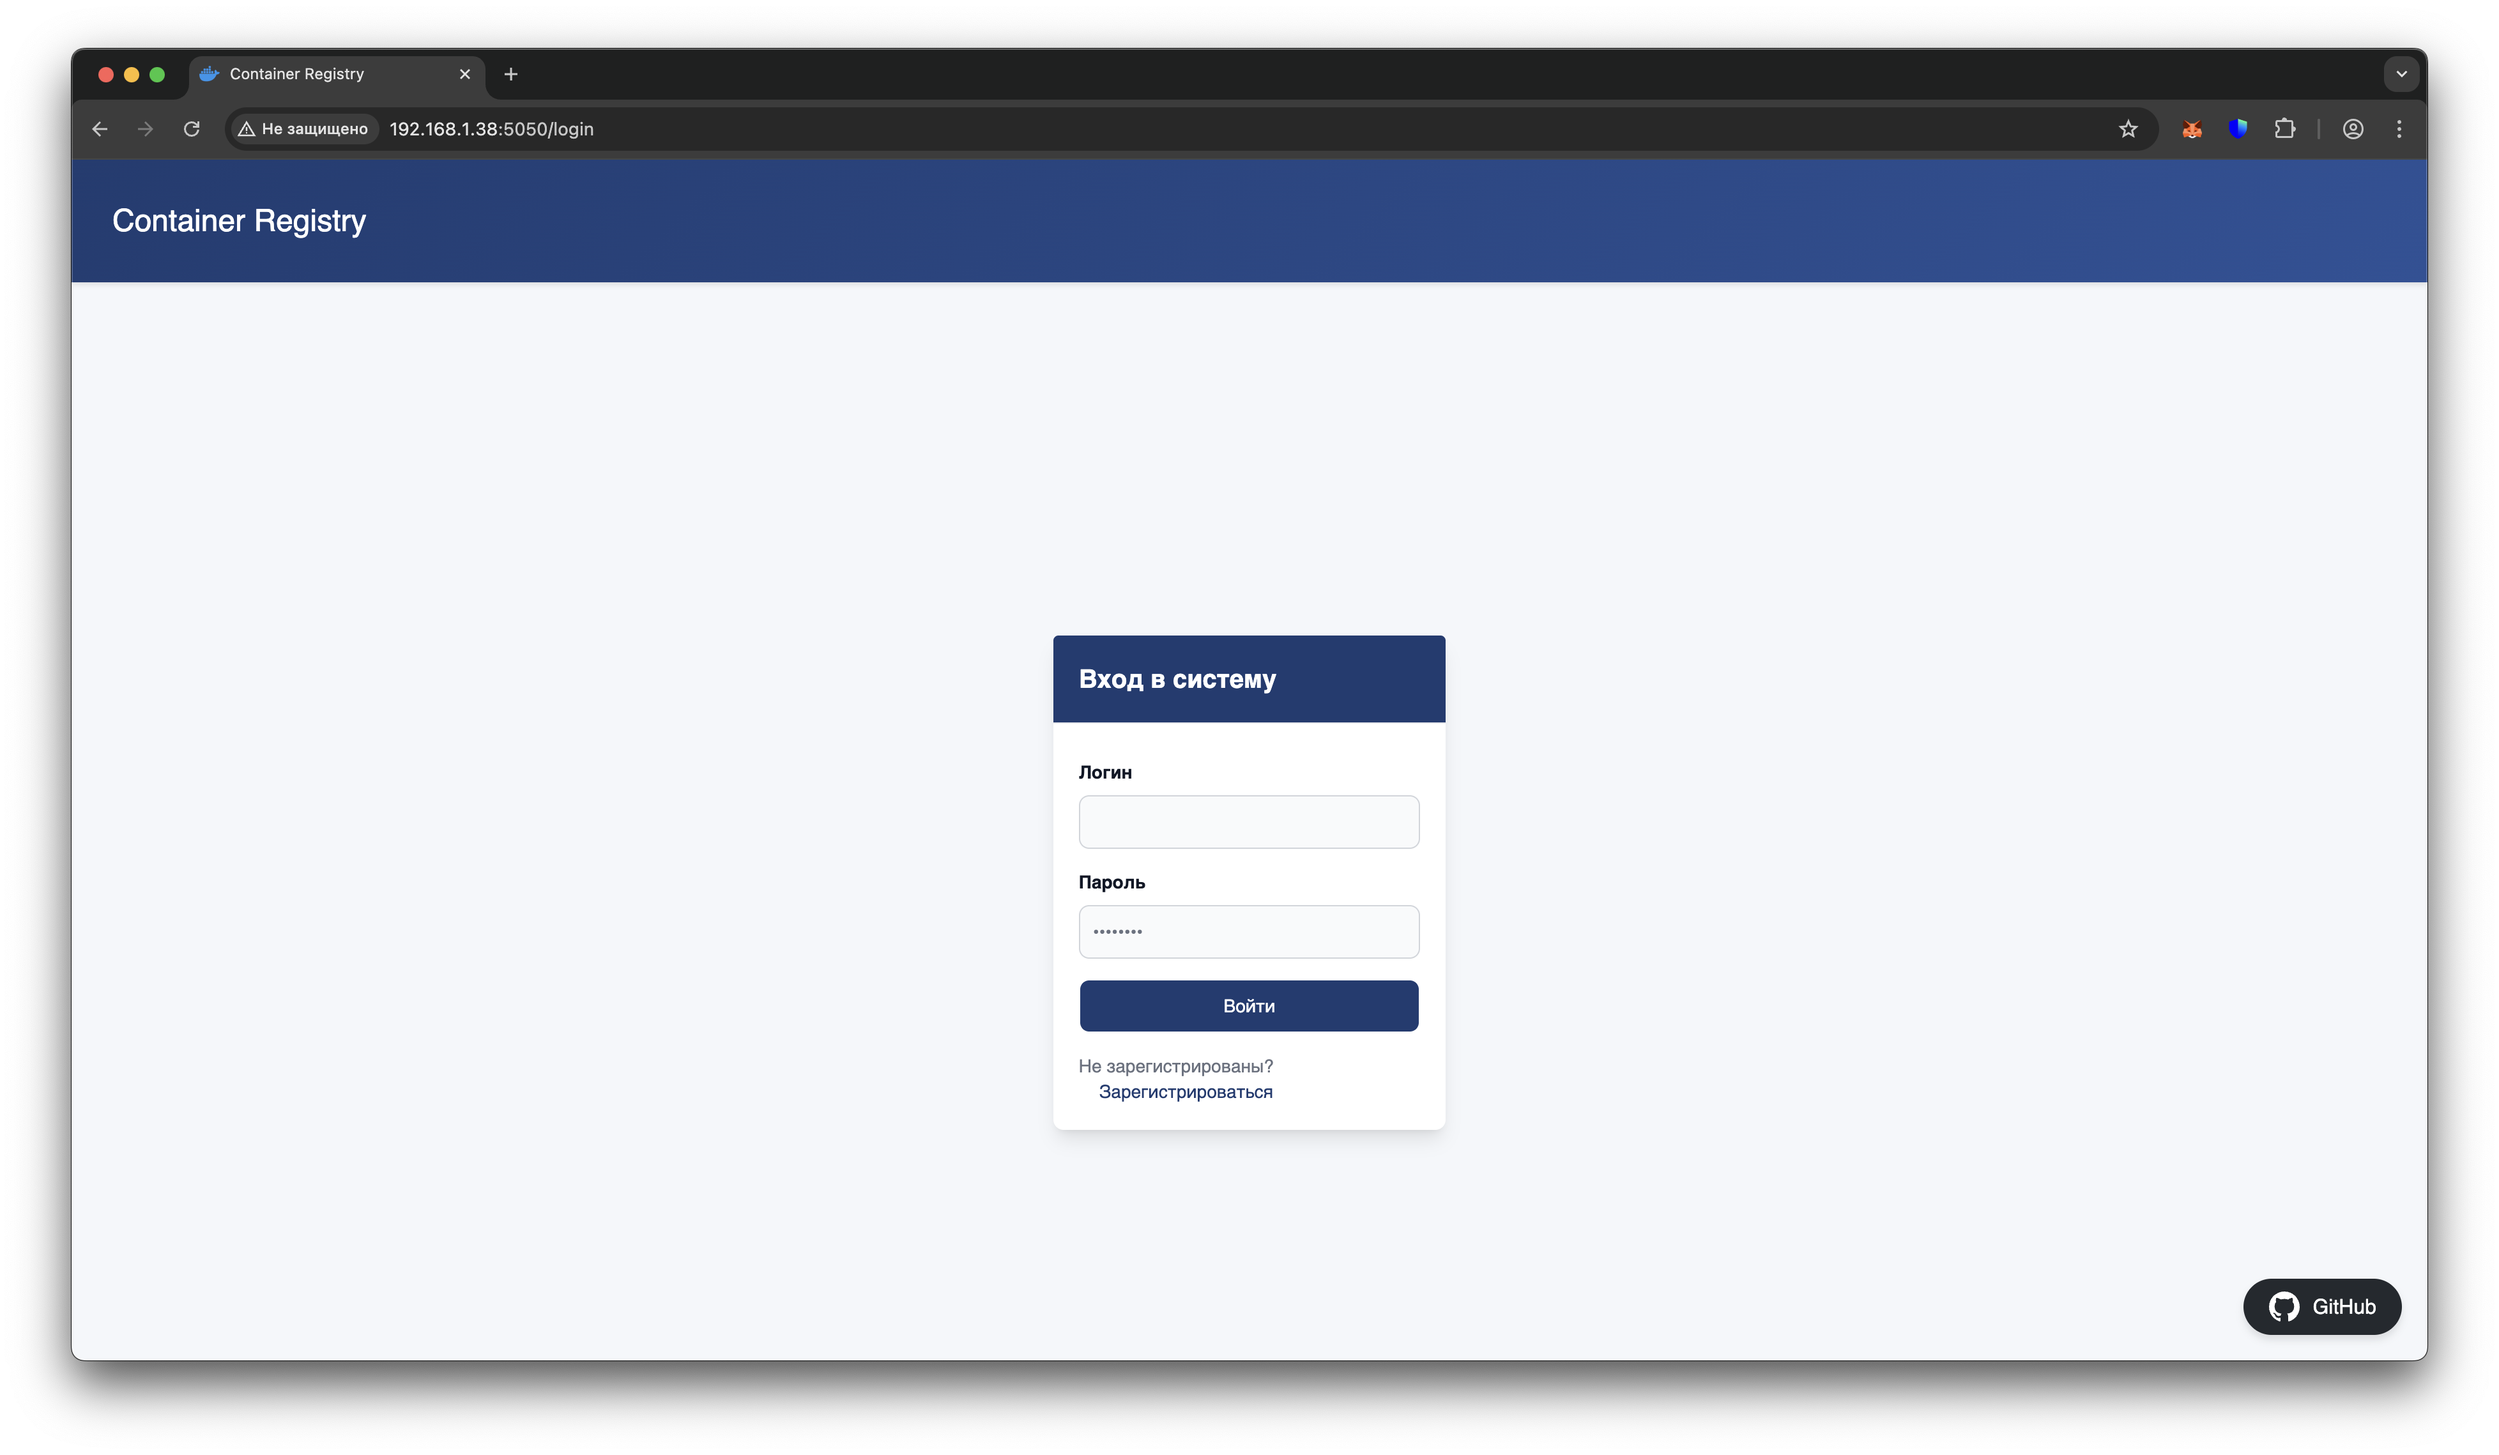
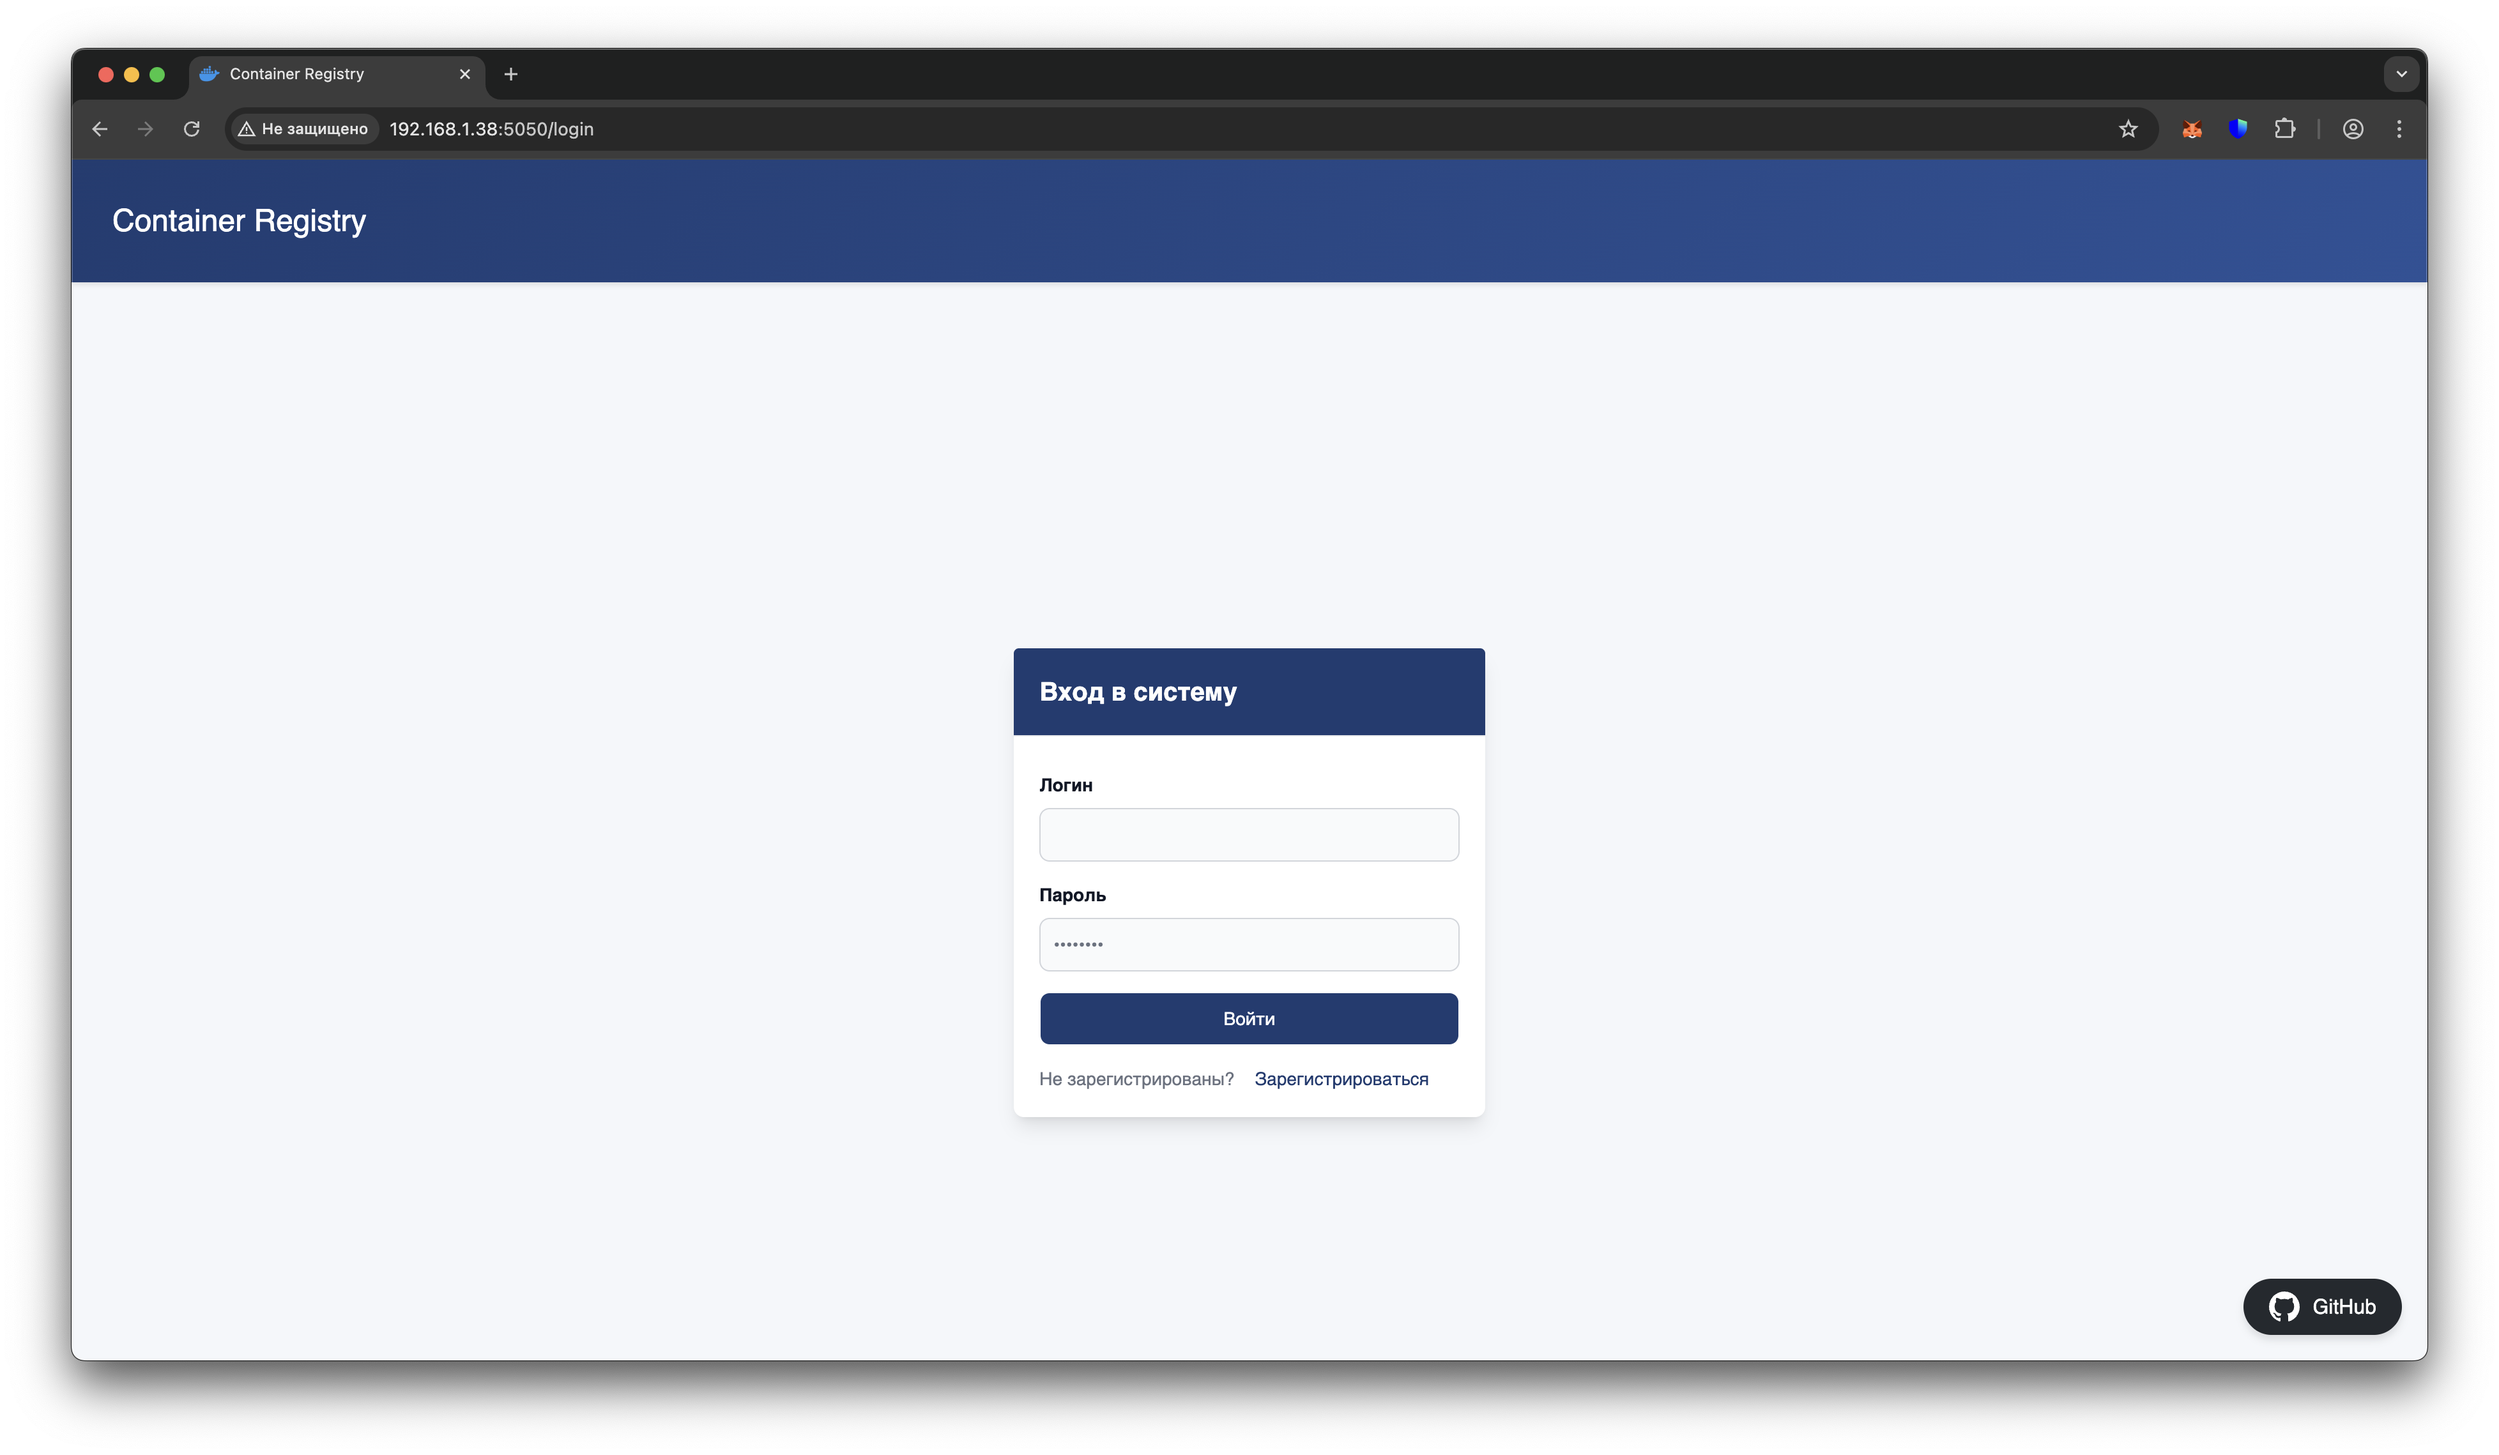
обновлена документация

Changed region(s): [[0.4054, 0.6545, 0.5925, 0.7792], [0.4054, 0.4363, 0.5925, 0.561], [0.4054, 0.5922, 0.4678, 0.6234]]

diff --git a/web/src/Registration.jsx b/web/src/Registration.jsx
@@ -33,7 +33,7 @@ export default function Registration() {
 
   return (
     <div class="flex justify-center items-center h-screen">
-      <div class="relative bg-white rounded-lg shadow-lg w-1/6">
+      <div class="relative bg-white rounded-lg shadow-lg w-1/5">
         <div class="flex bg-main items-center justify-between p-4 md:p-5 border-b rounded-t border-gray-200">
           <h3 class="text-white text-xl font-semibold">
             Регистрация в системе

diff --git a/web/src/Login.jsx b/web/src/Login.jsx
@@ -34,7 +34,7 @@ export default function Login() {
 
   return (
     <div class="flex justify-center items-center h-screen">
-      <div class="relative bg-white rounded-lg shadow-lg w-1/6">
+      <div class="relative bg-white rounded-lg shadow-lg w-1/5">
         <div class="flex bg-main items-center justify-between p-4 md:p-5 border-b rounded-t border-gray-200">
           <h3 class="text-white text-xl font-semibold">Вход в систему</h3>
         </div>

diff --git a/docs/README.md b/docs/README.md
@@ -26,7 +26,7 @@ docker volume create registry-data
 docker run -d --restart unless-stopped -p 5050:5050 \
 -v ./conf:/registry/conf.d \
 -v registry-data:/registry/var \
---name registry rosomilanov/container-registry 
+--name registry rosomilanov/container-registry
 ```
 
 ### Docker compose
@@ -40,11 +40,11 @@ services:
     ports:
       - 5050:5050
     volumes:
-	  - ./conf:/registry/conf.d
-     - registry-data:/registry/var
+      - ./conf:/registry/conf.d
+      - registry-data:/registry/var
 
 volumes:
-	registry-data:
+  registry-data:
 ```
 
 Сервис будет доступен по адресу http://192.168.1.38:5050/login
